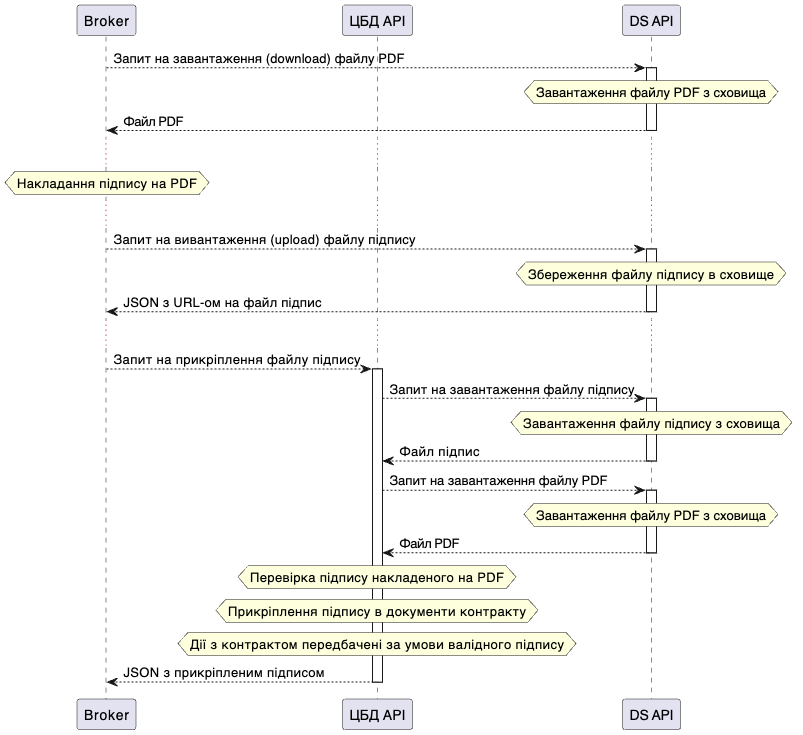
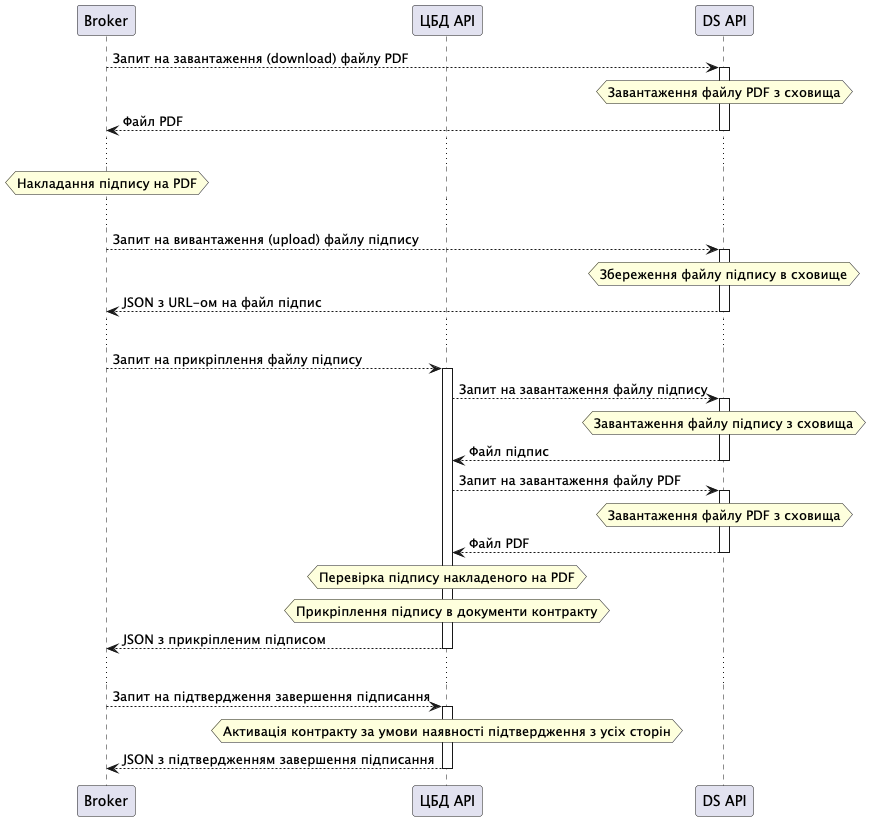
docs: updated documentation with signatories flow

diff --git a/docs/tests/test_contracting_econtract.py b/docs/tests/test_contracting_econtract.py
@@ -297,6 +297,12 @@ class TenderPQResourceTest(BasePQWebTest, MockWebTestMixin):
         )
         self.assertEqual(response.status, "201 Created")
 
+        # buyer provides signatory confirmation
+        self.app.post_json(
+            f"/contracts/{self.contract_id}/signatories?acc_token={buyer_token_2}",
+            {"data": {}},
+        )
+
         self.app.authorization = ("Basic", ("broker6", ""))
         with open(TARGET_DIR + "contract-supplier-cancels-contract.http", "w") as self.app.file_obj:
             response = self.app.post_json(
@@ -455,7 +461,21 @@ class TenderPQResourceTest(BasePQWebTest, MockWebTestMixin):
             response = self.app.post_json(
                 f"/contracts/{self.contract_id}/documents?acc_token={supplier_token}", {"data": contract_sign_data}
             )
-        self.assertEqual(response.status, "201 Created")
+            self.assertEqual(response.status, "201 Created")
+
+        with open(TARGET_DIR + "contract-supplier-add-signature-second-doc.http", "w") as self.app.file_obj:
+            response = self.app.post_json(
+                f"/contracts/{self.contract_id}/documents?acc_token={supplier_token}", {"data": contract_sign_data}
+            )
+            self.assertEqual(response.status, "201 Created")
+
+        with open(TARGET_DIR + "contract-supplier-add-signatory.http", "w") as self.app.file_obj:
+            # supplier provides signatory confirmation
+            self.app.post_json(
+                f"/contracts/{self.contract_id}/signatories?acc_token={supplier_token}",
+                {"data": {}},
+            )
+            self.assertEqual(response.status, "201 Created")
 
         with (
             change_auth(self.app, ("Basic", ("broker6", ""))),
@@ -464,7 +484,15 @@ class TenderPQResourceTest(BasePQWebTest, MockWebTestMixin):
             response = self.app.post_json(
                 f"/contracts/{self.contract_id}/documents?acc_token={buyer_token_2}", {"data": contract_sign_data}
             )
-        self.assertEqual(response.status, "201 Created")
+            self.assertEqual(response.status, "201 Created")
+
+        with open(TARGET_DIR + "contract-buyer-add-signatory.http", "w") as self.app.file_obj:
+            # buyer provides signatory confirmation
+            self.app.post_json(
+                f"/contracts/{self.contract_id}/signatories?acc_token={buyer_token_2}",
+                {"data": {}},
+            )
+            self.assertEqual(response.status, "201 Created")
 
         with open(TARGET_DIR + "get-active-contract.http", "w") as self.app.file_obj:
             self.app.get(f"/contracts/{self.contract_id}?acc_token={buyer_token_2}")
@@ -549,7 +577,22 @@ class TenderPQResourceTest(BasePQWebTest, MockWebTestMixin):
                 f"/contracts/{self.contract_id}/changes/{change_id}/documents?acc_token={supplier_token}",
                 {"data": contract_sign_data},
             )
-        self.assertEqual(response.status, "201 Created")
+            self.assertEqual(response.status, "201 Created")
+
+        with open(TARGET_DIR + "change-supplier-add-signature-second-doc.http", "w") as self.app.file_obj:
+            response = self.app.post_json(
+                f"/contracts/{self.contract_id}/changes/{change_id}/documents?acc_token={supplier_token}",
+                {"data": contract_sign_data},
+            )
+            self.assertEqual(response.status, "201 Created")
+
+        with open(TARGET_DIR + "change-supplier-add-signatory.http", "w") as self.app.file_obj:
+            # supplier provides signatory confirmation
+            self.app.post_json(
+                f"/contracts/{self.contract_id}/changes/{change_id}/signatories?acc_token={supplier_token}",
+                {"data": {}},
+            )
+            self.assertEqual(response.status, "201 Created")
 
         with (
             change_auth(self.app, ("Basic", ("broker6", ""))),
@@ -559,7 +602,15 @@ class TenderPQResourceTest(BasePQWebTest, MockWebTestMixin):
                 f"/contracts/{self.contract_id}/changes/{change_id}/documents?acc_token={buyer_token_2}",
                 {"data": contract_sign_data},
             )
-        self.assertEqual(response.status, "201 Created")
+            self.assertEqual(response.status, "201 Created")
+
+        with open(TARGET_DIR + "change-buyer-add-signatory.http", "w") as self.app.file_obj:
+            # buyer provides signatory confirmation
+            self.app.post_json(
+                f"/contracts/{self.contract_id}/changes/{change_id}/signatories?acc_token={buyer_token_2}",
+                {"data": {}},
+            )
+            self.assertEqual(response.status, "201 Created")
 
         with (
             change_auth(self.app, ("Basic", ("broker6", ""))),

diff --git a/docs/source/contracting/econtract/tutorial.rst b/docs/source/contracting/econtract/tutorial.rst
@@ -91,7 +91,7 @@
 
 * `attributes` - формується з вимог та відповідей на вимоги у закупівлі
 
-Також, PDF документ створюється на основі шаблону (`contractTemplateName`) та автоматично прикріплюється до договору з documentType `contractNotice`. 
+Також, PDF документ створюється на основі шаблону (`contractTemplateName`) та автоматично прикріплюється до договору з documentType `contractNotice`.
 
 Цей документ буде потрібен для підписання як постачальником, так і замовником пізніше, щоб активувати договір.
 
@@ -185,11 +185,23 @@ Let’s see what listing of contracts in contracting module reveals us:
 
 .. image:: /contracting/econtract/diagram/e_contract_pdf_signing/image.png
 
-Після того, як будуть накладені два підписи на поточну весрію контракту, контракт стає `active`.
+Після того, як обидві сторони підтвердять завершення підписання поточної верcії контракту, контракт стає `active`.
+
+Постачальник і замовник мають додати хоча б один документ підпису для підтвердження завершення процесу підписання.
 
 Постачальник додає документ підпису використовуючи свій токен (`supplier_token`), який він отримав при запиті доступу:
 
 .. http:example:: http/contract-supplier-add-signature-doc.http
+   :code:
+
+Постачальник додає другий опціональний документ підпису використовуючи свій токен (`supplier_token`), який він отримав при запиті доступу:
+
+.. http:example:: http/contract-supplier-add-signature-second-doc.http
+   :code:
+
+Постачальник підтверджує завершення процесу підписання використовуючи свій токен (`supplier_token`), який він отримав при запиті доступу:
+
+.. http:example:: http/contract-supplier-add-signatory.http
    :code:
 
 Замовник додає документ підпису використовуючи свій токен (`buyer_token`), який він отримав при запиті доступу:
@@ -197,7 +209,12 @@ Let’s see what listing of contracts in contracting module reveals us:
 .. http:example:: http/contract-buyer-add-signature-doc.http
    :code:
 
-Коли обидва підписа є у системі, то система підтверджує, що контракт підписано і активує його:
+Замовник підтверджує завершення процесу підписання використовуючи свій токен (buyer_token), який він отримав при запиті доступу:
+
+.. http:example:: http/contract-buyer-add-signatory.http
+   :code:
+
+Коли усі підписи додані і підтверджені, то система автоматичер активує контракт:
 
 .. http:example:: http/get-active-contract.http
    :code:
@@ -413,11 +430,23 @@ Let’s see what listing of contracts in contracting module reveals us:
 
 Для того, щоб активувати зміни, потрібно замовнику та постачальнику додати в якості документів електронні підписи.
 
-Після того, як будуть накладені два підписи на зміни, зміни стають `active`.
+Після того, як обидві сторони підтвердять завершення підписання поточної верcії зміни, зміна стає `active` і модифікації будуть враховані під час наступних змін.
+
+Постачальник і замовник мають додати хоча б один документ підпису для підтвердження завершення процесу підписання.
 
 Постачальник додає документ підпису використовуючи свій токен (`supplier_token`):
 
 .. http:example:: http/change-supplier-add-signature-doc.http
+   :code:
+
+Постачальник додає другий опціональний документ підпису використовуючи свій токен (`supplier_token`):
+
+.. http:example:: http/change-supplier-add-signature-second-doc.http
+   :code:
+
+Постачальник підтверджує завершення процесу підписання використовуючи свій токен (`supplier_token`):
+
+.. http:example:: http/change-supplier-add-signatory.http
    :code:
 
 Замовник додає документ підпису використовуючи свій токен (`buyer_token`):
@@ -425,7 +454,12 @@ Let’s see what listing of contracts in contracting module reveals us:
 .. http:example:: http/change-buyer-add-signature-doc.http
    :code:
 
-Коли обидва підписа є у системі, то система підтверджує, що зміни підписано і активує їх:
+Замовник підтверджує завершення процесу підписання використовуючи свій токен (`buyer_token`):
+
+.. http:example:: http/change-buyer-add-signatory.http
+   :code:
+
+Коли усі підписи додані і підтверджені, то система автоматично активує зміну:
 
 .. http:example:: http/get-active-change.http
    :code:
